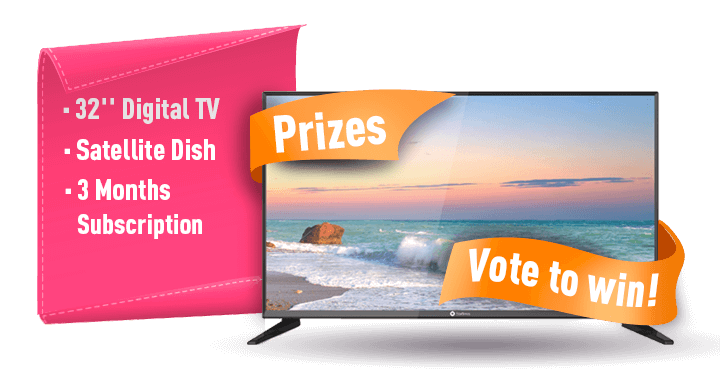
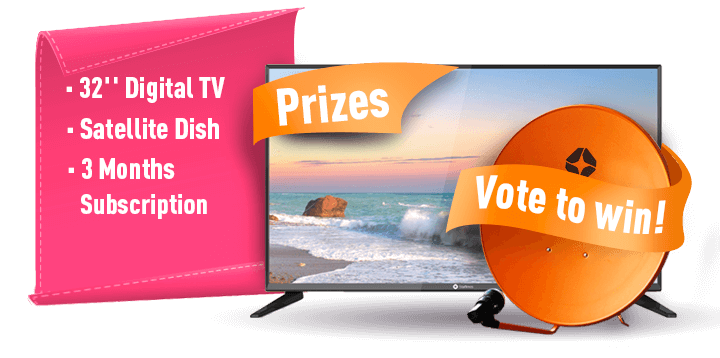
广告图更换，样式微调

diff --git a/pages/hybrid/vote/MrRight.vue b/pages/hybrid/vote/MrRight.vue
@@ -9,9 +9,9 @@
             </div>
         </div>
         <div class="rule">
-            <img src="~assets/img/vote/tv.png">
             <span class="share" @click="toShare">{{$store.state.lang.mrright_tell_my_friends}}</span>
             <nuxt-link :to="{path:'/hybrid/vote/rule'}">
+                <img src="~assets/img/vote/tv.png">
                 <div class="how-to-win">{{$store.state.lang.mrright_how_to_win}}</div>
             </nuxt-link>
         </div>
@@ -31,13 +31,15 @@
                     <span class="player-name">{{item.name.split('&')[1]}}</span>
                     <div class="vote-btn">
                         <span class="votes">{{item.ballot_num}}</span>
-                        <span v-if="item.user_ballot_num>0" class="btn" @click="handleViceVote(item)">{{$store.state.lang.mrright_voted}}</span>
-                        <span v-else class="btn" @click="handleViceVote(item)">{{$store.state.lang.mrright_vote}}</span>
+                        <div :class="{disabled:voteLeft==0}" class="btn" @click="handleViceVote(item)">
+                            <span v-if="item.user_ballot_num>0">{{$store.state.lang.mrright_voted}}</span>
+                            <span v-else>{{$store.state.lang.mrright_vote}}</span>
+                        </div>
                     </div>
                 </li>
             </ul>
         </div>
-        <div v-show="advisorList.length>0" class="rank">
+        <div v-show="advisorList.length>0 && rankList.length>0" class="rank">
             <p>
                 <img class="heart" src="~assets/img/vote/heartpoint.png">
                 <span class="title">{{$store.state.lang.mrright_history_rank}}</span>
@@ -221,8 +223,6 @@ export default {
                     this.$store.state.lang.mrright_no
                 )
             } else {
-                advisor.ballot_num++
-                // this.voteLeft--
                 this.$axios({
                     url: '/voting/v1/ballot',
                     method: 'POST',
@@ -236,6 +236,8 @@ export default {
                 }).then(res => {
                     if (res.data.code === 0) {
                         this.getVoteLeft()
+                        advisor.ballot_num++
+                        advisor.user_ballot_num++
                         if (!this.isLogin) {
                             this.$confirm(
                                 this.$store.state.lang.mrright_successfully_voted,
@@ -300,7 +302,7 @@ export default {
             text-decoration: underline;
             position: absolute;
             left: 3rem;
-            bottom: 4rem;
+            bottom: 3.3rem;
         }
     }
     .title {
@@ -398,16 +400,19 @@ export default {
                 margin-top: 0.5rem;
                 .votes {
                     display: inline-block;
-                    width: 45%;
+                    width: 40%;
                     color: #ff598c;
                 }
                 .btn {
                     color: #ffffff;
                     font-weight: bold;
                     display: inline-block;
-                    width: 50%;
+                    width: 55%;
                     background: #ff598c;
                     border-radius: 15px;
+                    &.disabled {
+                        background: #b0b0b0;
+                    }
                 }
             }
         }
@@ -558,5 +563,11 @@ export default {
             }
         }
     }
+}
+@keyframes toRight {
+  
+}
+@keyframes toLeft {
+
 }
 </style>
